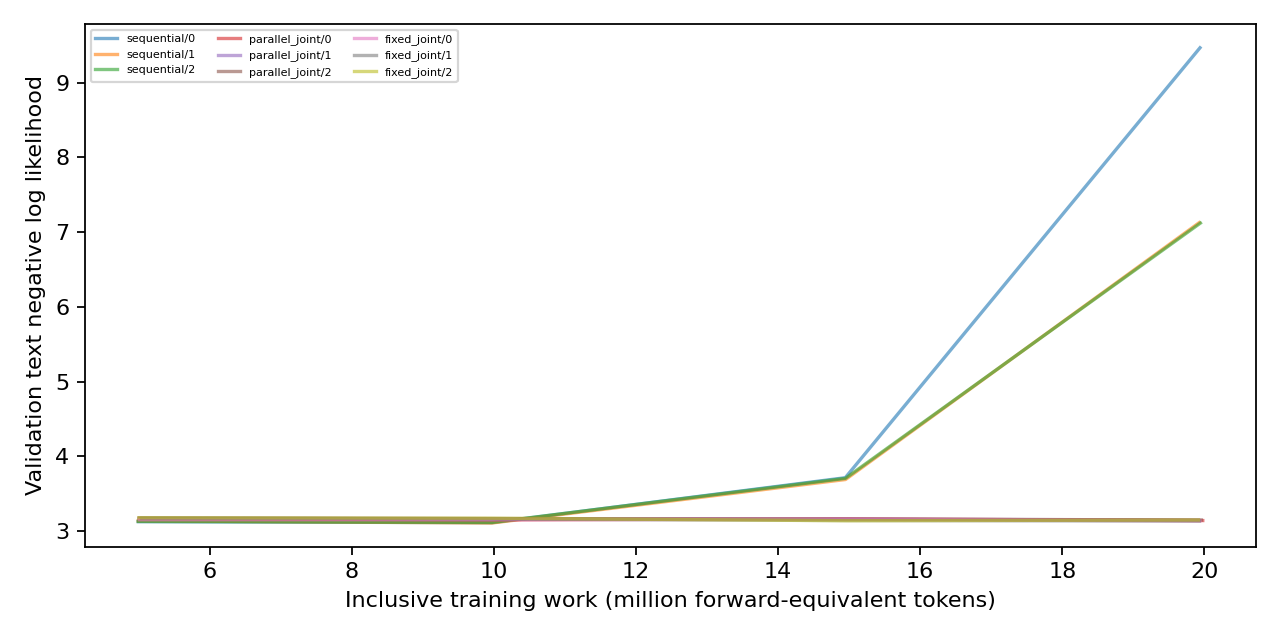
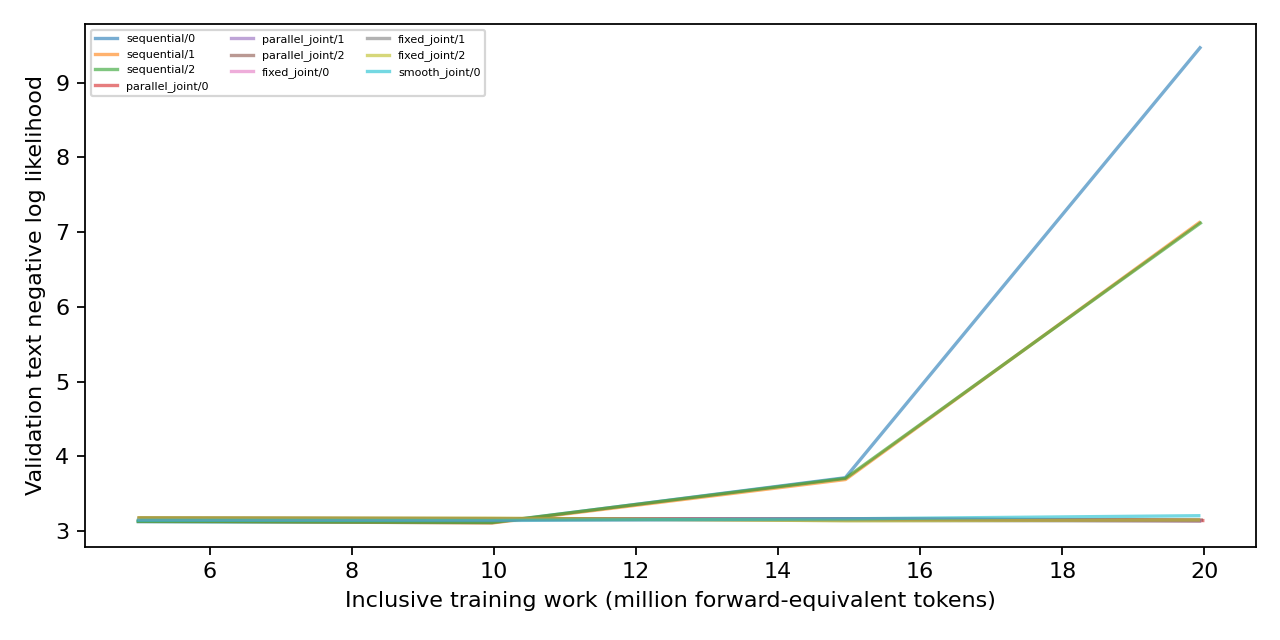
Report verified unified-training pilot progress

Changed region(s): [[0.0625, 0.0312, 0.375, 0.1562], [0.5625, 0.7812, 0.9375, 0.8125]]

diff --git a/experiments/02_early_checkpoint_joint_objectives/results.md b/experiments/02_early_checkpoint_joint_objectives/results.md
@@ -13,7 +13,7 @@
 | fixed_joint | 0 | complete | 19.938 | 0.3464 [0.3275, 0.3657] | 0.0136 [0.0086, 0.0215] | 3.2422 [3.2119, 3.2719] | 0.6055 [0.5445, 0.6634] / 0.5039 [0.4431, 0.5646] |
 | fixed_joint | 1 | complete | 19.930 | 0.3396 [0.3209, 0.3589] | 0.0099 [0.0058, 0.0168] | 3.2500 [3.2201, 3.2790] | 0.5898 [0.5287, 0.6483] / 0.5117 [0.4508, 0.5723] |
 | fixed_joint | 2 | complete | 19.916 | 0.3615 [0.3425, 0.3811] | 0.0220 [0.0154, 0.0314] | 3.2466 [3.2157, 3.2756] | 0.5977 [0.5366, 0.6559] / 0.5469 [0.4857, 0.6067] |
-| smooth_joint | 0 | pending | unavailable | unavailable | unavailable | unavailable | unavailable |
+| smooth_joint | 0 | complete | 19.922 | 0.3523 [0.3333, 0.3717] | 0.0174 [0.0116, 0.0260] | 3.3162 [3.2869, 3.3458] | 0.6094 [0.5484, 0.6671] / 0.5312 [0.4701, 0.5915] |
 | smooth_joint | 1 | pending | unavailable | unavailable | unavailable | unavailable | unavailable |
 | smooth_joint | 2 | pending | unavailable | unavailable | unavailable | unavailable | unavailable |
 | aioli_objective | 0 | pending | unavailable | unavailable | unavailable | unavailable | unavailable |
@@ -33,7 +33,7 @@ NLL = negative log likelihood; preference raw ordering is the preference endpoin
 
 Intervals: 95% Wilson binary-item score, conditional on each trained model; p-val=n/a (no hypothesis test). Three seeds do not establish universal superiority. Aioli, CHORD (Controllable Harmonization of On- and Off-Policy Reinforcement Learning via Dynamic Weighting), and RPT (Reinforcement Pre-Training) are declared adaptations; exact CHERRY-RL identity remains unresolved.
 
-Complete: 9/24. See `expt_v1/PROTOCOL.md` and the program review reconciliation.
+Complete: 10/24. See `expt_v1/PROTOCOL.md` and the program review reconciliation.
 
 Seed uncertainty, two-stage seed/item intervals, initial-checkpoint changes and all paired comparisons: `expt_v1/analysis.json`. Missing trained seeds remain missing with separate accuracy sensitivity bounds. p-val=n/a throughout; no formal superiority verdict.
 

diff --git a/experiments/00_program/FINAL_STATUS.md b/experiments/00_program/FINAL_STATUS.md
@@ -1,6 +1,6 @@
 # Full-program status
 
-Verified cells: 33/48; failed: 0; interrupted: 0; pending: 15; unstarted at global bound: 0.
+Verified cells: 34/48; failed: 0; interrupted: 0; pending: 14; unstarted at global bound: 0.
 
 Full-program execution is incomplete. Required plan and implementation findings are reconciled; see acceptance.json.
 Results and uncertainty are in each experiment folder; no universal-superiority claim.
